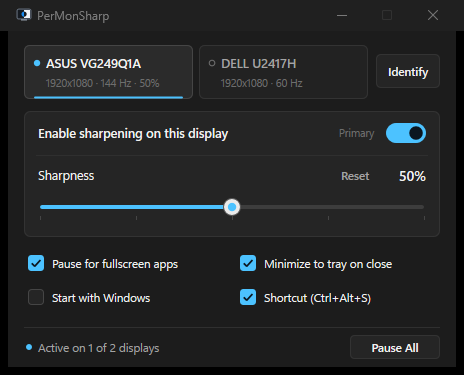
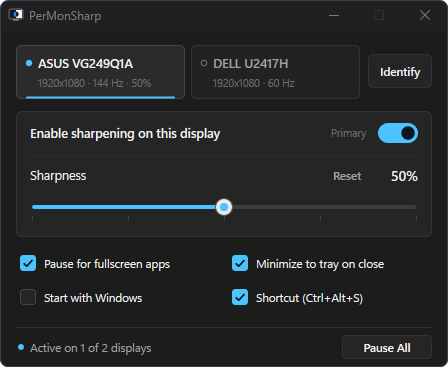
Fix window border crop in README screenshot

diff --git a/README.md b/README.md
@@ -10,7 +10,7 @@
 PerMonSharp is a native, ultra-lightweight Windows desktop utility that lets you fine-tune the perceived sharpness of each connected monitor independently in real time—without relying on coarse built-in monitor OSD menus, DDC/CI support, or GPU driver panels.
 
 <p align="center">
-  <img src="assets/screenshot.png" alt="PerMonSharp Application Window" width="464" />
+  <img src="assets/screenshot.png" alt="PerMonSharp Application Window" width="448" />
 </p>
 
 ---
